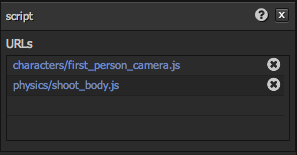
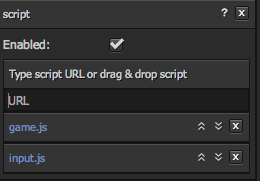
Updated docs with new designer layout and new script picker / scripts explorer

diff --git a/content/user-manual/scripting/workflow.md b/content/user-manual/scripting/workflow.md
@@ -18,13 +18,15 @@ This is how your Project will be set up be default when you create it. If you ha
 
 ![script picker][script_picker]
 
-To add a new script, open your Pack in PlayCanvas Designer and select or add a Script Component to the Entity you wish to add the script to. Then in the script picker control, click on the top most empty line and type in the name of your script, and press Enter. You will now see the name of your script is now a link, click this to open the Code Editor. Click the x next to the script name to remove the script from this component.
+To add a new script, open your Pack in PlayCanvas Designer and select or add a Script Component to the Entity you wish to add the script to. Then in the script picker control, click on the URL field and type in the name of your script, and press Enter. You will now see the name of your script is now a link, click this to open the Code Editor. Click the x next to the script name to remove the script from this component.
+
+Alternatively you can open the [Scripts Explorer][scripts_explorer] and drag and drop a script from there into the script picker control.
 
 <div class="alert alert-info small">
-You will only be able to edit scripts you are using the PlayCanvas to storing your scripts. If you have an external code repository set up then you cannot edit scripts via PlayCanvas. You will have to use either the Local Server or commit code to your repository.
+You can only edit scripts if you are using PlayCanvas for storing your scripts. If you have an external code repository set up then you cannot edit scripts via PlayCanvas. You will have to use either the Local Server or commit code to your repository.
 </div>
 
-Click the script link and the built-in code editor will open in a new tab. You may need to allow pop-ups from playcanvas.com to see the new tab. When you have edit a script for the first time it will be created and saved. You can then see all scripts from the Code tab in your Project dashboard.
+Click the script link and the built-in code editor will open in a new tab. You may need to allow pop-ups from playcanvas.com to see the new tab. When you have edit a script for the first time it will be created and saved. You can then see all scripts from the [Code][code_tab] tab in your Project dashboard or from the [Scripts Explorer][scripts_explorer] in the Designer.
 
 ## Local Server
 
@@ -108,6 +110,8 @@ Exporting packs will only use server-side for source code resources.
 [python]: http://www.python.org/download/
 [server_windows]: /downloads/localserver.bat
 [launch_buttons]: /images/platform/launch_buttons.png
-[script_picker]: /images/platform/script_picker.png
+[script_picker]: /images/platform/component_script.png
 [code_directory]: /images/platform/playcanvas_code_repo.jpg
 [code_repository]: /images/platform/bitbucket_code_repo.jpg
+[scripts_explorer]: /user-manual/designer/scripts-explorer
+[code_tab]: /user-manual/dashboard/code

diff --git a/content/user-manual/scripting/creating-new.md b/content/user-manual/scripting/creating-new.md
@@ -10,7 +10,7 @@ position: 1
 
 Script Components are attached to Entities in the same way as all other Components using the *New Component* command in the **Component** menu.
 
-Once you have added a Script Component you can specify the URLs of the javascript files to load. The script component has a field named URLs into which you can add paths to your scripts or other javascript libraries.
+Once you have added a Script Component you can specify the URLs of the javascript files to load. The script component has a field named URL into which you can add paths to your scripts or other javascript libraries. Just type the URL of your script and press Enter. You can also select an existing script from the [Scripts Explorer][scripts_explorer] and drag & drop it in here.
 
 The paths you supply for the scripts are relative your Local Server or Code Repository, e.g. `directory/script.js` see the [scripting workflow][coding_workflow] page for details on how to set these up.
 
@@ -36,4 +36,7 @@ If you are using the PlayCanvas code repository to store your code, you can edit
 If you are using Github or Bitbucket you can not edit you scripts in PlayCanvas, you must make your commits through your source control system.
 </div>
 
+The order in which you add your scripts on a Script Component is the order in which the scripts are going to be initialized and updated. If you want to change the order of a script, click on the Up - Down arrows next to the Script's title. To remove a script click on the X button.
+
 [coding_workflow]: /user-manual/scripting/workflow
+[scripts_explorer]: /user-manual/designer/scripts-explorer

diff --git a/content/user-manual/designer/index.md b/content/user-manual/designer/index.md
@@ -13,7 +13,7 @@ The PlayCanvas Designer is a visual editing tool which you use to create and edi
 
 ## Interface
 
-<img alt="Designer Interface" width="640" src="/images/platform/designer_interface.png" />
+<img alt="Designer Interface" width="640" src="/images/platform/designer_interface.jpg" />
 
 This is the main interface to the PlayCanvas Designer. You can see labeled the main areas
 
@@ -22,6 +22,8 @@ This is the main interface to the PlayCanvas Designer. You can see labeled the m
 * **Pack Explorer** A hierarchical view of the Entities that make up the open Pack. Use this to select, delete and re-parent Entities.
 * **Attribute Editor** Detailed properties of each [Component][component] attached to the selected Entity.
 * **Design View** A 3D view onto your scene, use this view to select, position and orientate Entities.
+* **Assets Explorer** A view of all the Assets in the current Project. You can search for assets by name, filter by type and also drag and drop assets to various slots or in the Design View.
+* **Scripts Explorer** A view of all the Scripts in the current Project. You can drag and drop scripts from this view on the Script Component.
 
 [pack]: /user-manual/glossary#pack
 [entity]: /user-manual/glossary#entity

diff --git a/content/user-manual/designer/asset-library.md b/content/user-manual/designer/asset-library.md
@@ -8,13 +8,13 @@ When you are building your game with PlayCanvas, you will probably want to use 3
 
 ## Accessing the Asset Library
 
-The Asset Library can be opened from PlayCanvas Designer. Just hit the big orange button in the top right of the interface:
+The Asset Library can be opened from PlayCanvas Designer. Just hit the big orange button on the top of the interface:
 
 <img alt="Asset Library Button" src="/images/platform/asset_library/asset_library_button.png" />
 
 The Asset Library opens in a dialog that shows the thumbnails of all assets that can be imported into your project:
 
-<img alt="Asset Library" width="640" src="/images/platform/asset_library/asset_library_open.png" />
+<img alt="Asset Library" width="640" src="/images/platform/asset_library/asset_library_open.jpg" />
 
 Choose an asset and hit the 'Add' button. Note that assets can only be imported into a project once, after which the 'Add' button becomes greyed out.
 

diff --git a/content/user-manual/designer/scripts-explorer.md b/content/user-manual/designer/scripts-explorer.md
@@ -1,0 +1,14 @@
+---
+title: Scripts Explorer
+template: page.tmpl.html
+position: 6
+---
+
+![Scripts Explorer](/images/platform/scripts_explorer.png "Drag & drop scripts from the Scripts Explorer on Script Components")
+
+The Scripts Explorer shows you a tree view of the Scripts that you have in your Code Repository. If you want to add a script on an
+Entity, simply drag and drop a script from the Scripts Explorer on the Script Component of the Entity.
+
+If you want to view or edit the code in one of your scripts, simply click on a script in the Scripts Explorer and that will open the Code Editor.
+
+To refresh the scripts shown in the treeview click on the Refresh button on the top right of the Scripts Explorer.

diff --git a/content/user-manual/designer/scene-settings.md b/content/user-manual/designer/scene-settings.md
@@ -14,7 +14,7 @@ The panel can be accessed by selecting 'Toggle Scene Settings' from Designer's V
 
 <img alt="Scene Settings Menu Option" src="/images/platform/scene_settings/scene_settings_view_menu.png" />
 
-This will show the Scene Settings panel to the left of Designer's 3D View:
+This will show the Scene Settings panel to the right of Designer's 3D View:
 
 <img alt="Scene Settings Panel" src="/images/platform/scene_settings/scene_settings_panel_default.png" />
 
